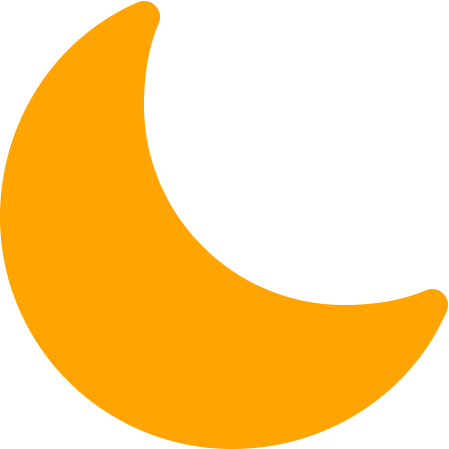
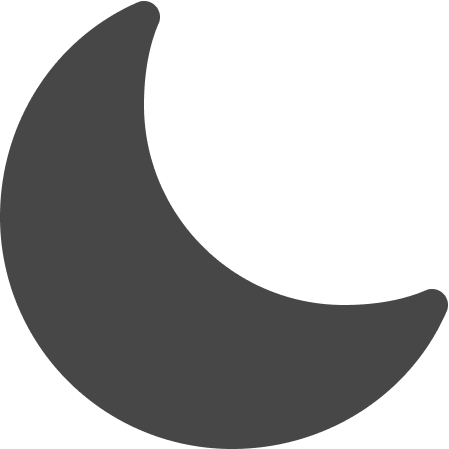
Menerapkan sistem CRUD

diff --git a/css/dashboard.css b/css/dashboard.css
@@ -1,25 +1,52 @@
-.navbar{
-    position: absolute;
-    width: 1440px;
-    height: 90px;
-    left: 0px;
-    top: 0px;
+@import url('https://fonts.googleapis.com/css2?family=Poppins:wght@100;400&display=swap');
 
-    background: #DF9002;
+:root{
+    /*=== Light Mode ===*/
+ --background-color: #F1F1F1;
+ --main-color: #A2A1A1;
+ --shadow:   12px 12px 16px #b0b0b0,
+ -12px -12px 16px #ffffff;
+ --text-color-1: 
+ --text-color-2: #A2A1A1;
+ --button: #222026;
+ --font: 'Poppins', sans-serif;
+
 }
 
-h4{
+.dark-theme{
+ /*=== Dark Mode ===*/
+ --background-color: #1F1D2C;
+ --main-color: #FFA400;
+ --shadow: 20px 20px 34px #0f0e16,
+ -20px -20px 34px #2f2c42;
+ --text-color-1: #FFFFFF;
+ --text-color-2: #FFA400;
+ --button: #FFA400;
+ --font: 'Poppins', sans-serif;
+   
+
+}
+
+*{
+    margin: 0;
+    padding: 0;
+    box-sizing: border-box;
+    font-family: var(--font);
+}
+
+#icon{
     position: absolute;
-    width: 129px;
-    height: 36px;
-    left: 55px;
-    top: 0;
+    height: 30px;
+    width: 30px;
+    color: #FFA400;
+    cursor: pointer;
+}
 
-    font-family: 'Poppins';
-    font-style: normal;
-    font-weight: 400;
-    font-size: 24px;
-    line-height: 36px;
+.container{
+    display: flex;
+}
 
-    color: #ddd;
+.sidebar{
+    background-color: var(--background-color);
+    height: 100vh;
 }

diff --git a/add-makanan.html b/add-makanan.html
@@ -1,0 +1,32 @@
+<!DOCTYPE html>
+<html lang="en">
+<head>
+    <meta charset="UTF-8">
+    <meta http-equiv="X-UA-Compatible" content="IE=edge">
+    <meta name="viewport" content="width=device-width, initial-scale=1.0">
+    <title>Tambah Data Makanan</title>
+</head>
+<body>
+
+    <form action="save-makanan.php" method="POST">
+
+
+
+        <label for="">Id :</label>
+        <input type="text" required type="number" name="id">
+
+        <label for="">Nama :</label>
+        <input type="text" required type="text" name="nama">
+
+        <label for="">Harga :</label>
+        <input type="text" required type="text" name="harga">
+
+        <label for="">Keterangan :</label>
+        <input type="text" required type="text" name="keterangan">
+
+        <input type="submit" name="simpan" value="simpan">
+
+    </form>
+
+</body>
+</html>

diff --git a/dashboard.php b/dashboard.php
@@ -1,0 +1,57 @@
+<?php
+
+include 'connect.php';
+
+?>
+<!DOCTYPE html>
+<html lang="en">
+<head>
+    <meta charset="UTF-8">
+    <meta http-equiv="X-UA-Compatible" content="IE=edge">
+    <meta name="viewport" content="width=device-width, initial-scale=1.0">
+    <title>Dashboard</title>
+    <!-- CSS -->
+    <link rel="stylesheet" href="css/dashboard.css">
+    <!-- Icon -->
+    <script type="module" src="https://unpkg.com/ionicons@5.5.2/dist/ionicons/ionicons.esm.js"></script>
+    <script nomodule src="https://unpkg.com/ionicons@5.5.2/dist/ionicons/ionicons.js"></script>
+</head>
+<body>
+
+
+    <h3><a href="add-makanan.html">[+] Tambah Data Makanan</a></h3>
+
+<table cellpadding="10" cellspacing="0">
+                        <tr class="head" >
+                            <th>Id</th>
+                            <th>Nama</th>
+                            <th>Harga</th>
+                            <th>Keterangan</th>
+                            <th>Aksi</th>
+                        </tr>
+                        <?php
+                        $sql = "SELECT * FROM makanan ORDER BY id ASC";
+                        $query = mysqli_query($connect,$sql);
+                        if(isset($_GET['cari'])){
+                            $query = mysqli_query($connect,"SELECT * FROM makanan WHERE nama LIKE '%".$_GET['cari']."%'");
+                        }
+                        while($mkn = mysqli_fetch_array($query)){
+                        echo"
+                        <tr>
+                            <td>$mkn[id]</td>
+                            <td>$mkn[nama]</td>
+                            <td>$mkn[harga]</td>
+                            <td>$mkn[keterangan]</td> 
+                            <td>
+                                <div class='btn'>
+                                    <a class='hapus' href='form-edit-makanan.php?id=".$mkn['id']."'  ><div class='pensil'><ion-icon name='pencil'></div></ion-icon></a>
+                                    <a class='edit' href='delete-makanan.php?id=".$mkn['id']."'><div class='sampah'><ion-icon name='trash'></div></ion-icon></i></a>
+                                </div>
+                            </td>
+                        </tr>";
+                        };
+        
+                        ?>
+
+</body>
+</html>

diff --git a/form-edit-makanan.php b/form-edit-makanan.php
@@ -1,0 +1,45 @@
+<?php
+include 'connect.php';
+
+$id = $_GET['id'];
+$sql = "SELECT * FROM makanan WHERE id='$id'";
+$query = mysqli_query($connect, $sql);
+$mkn = mysqli_fetch_assoc($query);
+
+if(mysqli_num_rows($query) < 1){
+    die ("data tidak ditemukan");
+}
+?>
+
+<!DOCTYPE html>
+<html lang="en">
+<head>
+    <meta charset="UTF-8">
+    <meta http-equiv="X-UA-Compatible" content="IE=edge">
+    <meta name="viewport" content="width=device-width, initial-scale=1.0">
+    <title>Edit Data</title>
+</head>
+<body>
+
+    <form action="edit-makanan.php" method="post">
+        
+        <label for="">Id</label>
+        <input value="<?php echo $mkn ['id']?>" required="required" name="id">
+        
+        
+        <label for="">Nama</label>
+        <input value="<?php echo $mkn ['nama']?>" required="required" name="nama">
+        
+        <label for="">Harga</label>
+        <input value="<?php echo $mkn ['harga']?>" required="required" name="harga">
+        
+        <label for="">Keterangan</label>
+        <input value="<?php echo $mkn ['keterangan']?>" required="required" name="keterangan">
+        
+        <input type="submit" name="simpan" value="simpan">
+        
+    </form>
+
+</body>
+</html>
+

diff --git a/save-makanan.php b/save-makanan.php
@@ -1,0 +1,20 @@
+<?php
+include 'connect.php';
+
+if (isset($_POST['simpan'])){
+    $id = $_POST['id']; 
+    $nama = $_POST['nama']; 
+    $harga = $_POST['harga'];
+    $keterangan = $_POST['keterangan']; 
+
+    $sql = "INSERT INTO makanan (id, nama, harga, keterangan) VALUES('$id', '$nama', '$harga', '$keterangan')";
+
+    $query = mysqli_query($connect, $sql);
+
+    if($query){
+        header('Location: dashboard.php');
+    }else {
+        header('Location: save-makanan.php?status=gagal'); 
+    }
+}
+?>

diff --git a/edit-makanan.php b/edit-makanan.php
@@ -1,0 +1,21 @@
+<?php
+include 'connect.php';
+
+if (isset($_POST ['simpan'])){
+    $id = $_POST['id'];
+    $nama = $_POST['nama'];
+    $harga = $_POST['harga'];
+    $keterangan = $_POST['keterangan'];
+
+
+    $sql = "UPDATE makanan SET nama='$nama', harga='$harga', keterangan='$keterangan' WHERE id ='$id'";
+
+    $query = mysqli_query ($connect, $sql);
+    if ($query){
+        header('Location: dashboard.php');
+    }else{
+        header('Location: edit-makanan.php?status=gagal');
+    }
+
+}
+?>

diff --git a/delete-makanan.php b/delete-makanan.php
@@ -1,0 +1,16 @@
+<?php
+// includde adalah untuk menyambungkan file koneksi ke database
+include 'connect.php';
+// get adalah nama url yang ada di kolom pencarian
+$id = $_GET['id'];
+
+$sql = "DELETE FROM makanan WHERE id='$id'";
+$query = mysqli_query ($connect, $sql);
+
+if ($query){
+    header('Location: dashboard.php');
+    }else{
+    header('Location: delete-makanan.php?status=gagal');
+    }
+
+?>
